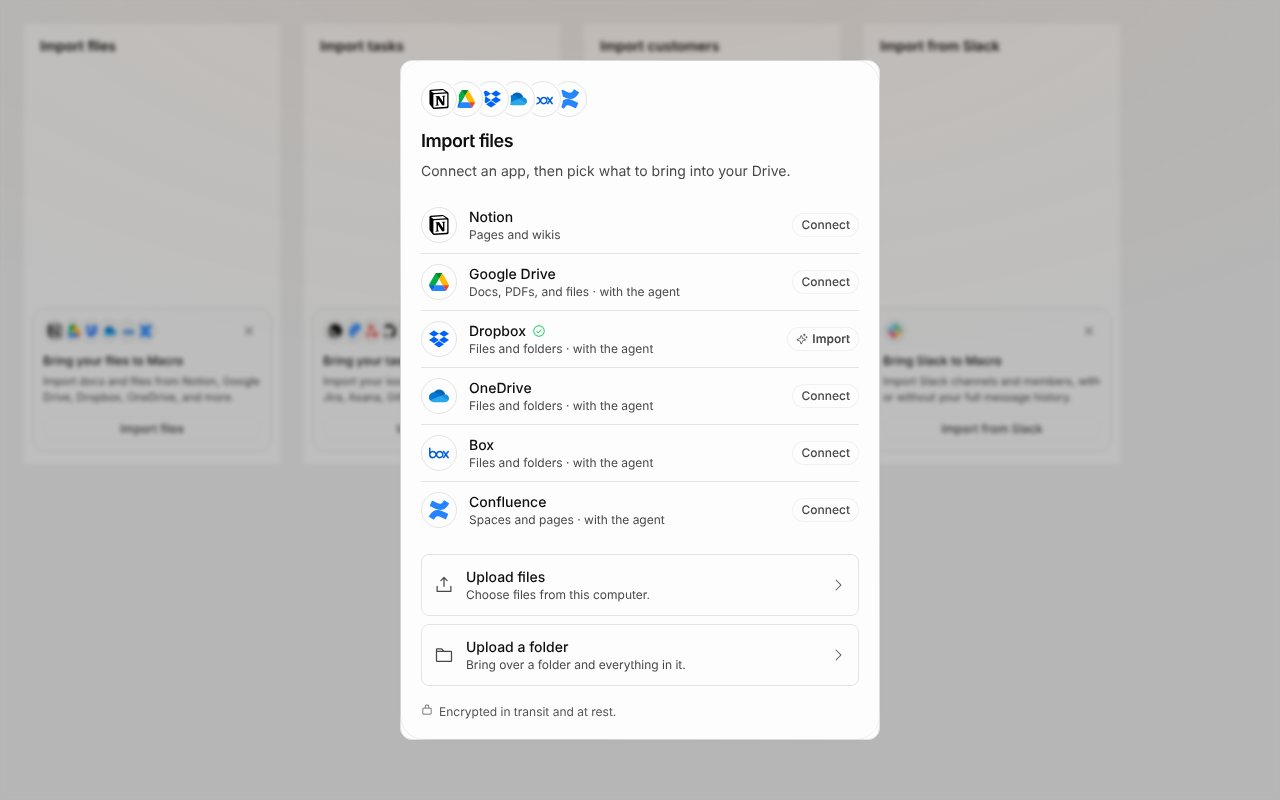
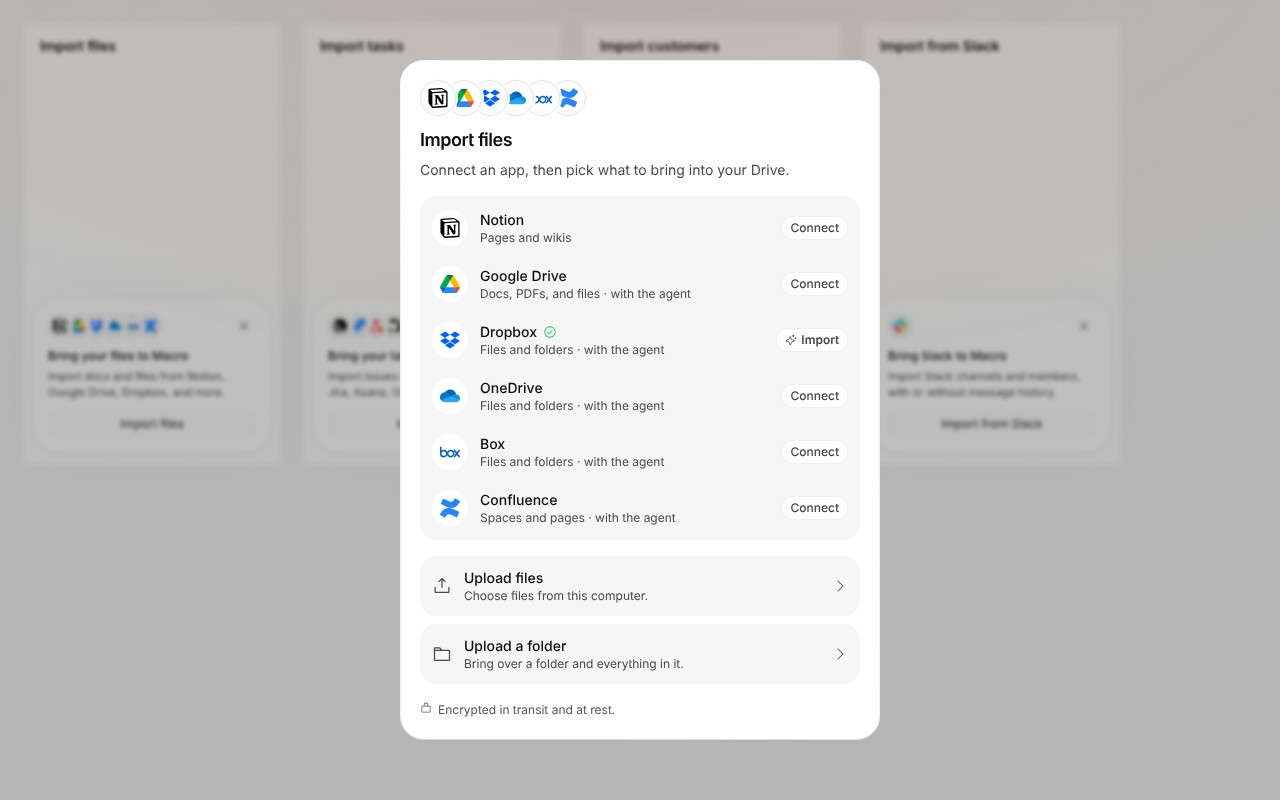
feat(connector-import): soften the import dialog to match the cards
Why: the import dialog's hard divider lines, borders and tight corners
clashed with the new rounded, shadowed setup cards.

What: give the dialog panels the dialog's own 24px rounding without an inner
border (the `contents` wrapper had kept them out of reach of Dialog's surface
reset). Replace divider lines in the app and item lists with soft grouped
panels, turn the upload rows and the error note into borderless tiles, and
drop the footer rule and the logo rings. Recapture the dialog review media.

Claude-Session: https://claude.ai/code/session_01WDqoDVt7oj7XvKTSTtyzYA

diff --git a/apps/web/src/features/connector-import/views/import-dialog.tsx b/apps/web/src/features/connector-import/views/import-dialog.tsx
@@ -133,7 +133,11 @@ function ImportDialogBody(props: {
       <Show
         when={picking()}
         fallback={
-          <ActionDialogShell class="max-h-[85dvh]">
+          // The `contents` wrapper hides this shell from Dialog's surface reset.
+          <ActionDialogShell
+            hideBorder
+            class="max-h-[85dvh] rounded-[24px] bg-transparent"
+          >
             <ActionDialogShell.Body class="space-y-4">
               <ActionDialogShell.Header>
                 <LogoStack
@@ -149,7 +153,7 @@ function ImportDialogBody(props: {
                 </ActionDialogShell.Description>
               </ActionDialogShell.Header>
               <ul
-                class="divide-y divide-edge-muted"
+                class="rounded-2xl bg-ink/3 px-3 py-1"
                 aria-label={`Apps to ${props.config.action.toLowerCase()} from`}
               >
                 <For each={props.config.providers}>
@@ -184,7 +188,7 @@ function ImportDialogBody(props: {
                     {(alternative) => (
                       <button
                         type="button"
-                        class="flex w-full items-center gap-3 rounded-lg border border-edge-muted p-3 text-left hover:bg-ink/4 focus-visible:outline-accent"
+                        class="flex w-full items-center gap-3 rounded-2xl bg-ink/3 px-3 py-3 text-left hover:bg-ink/5 focus-visible:outline-accent"
                         onClick={() => {
                           props.onClose();
                           alternative.onSelect();

diff --git a/apps/web/src/features/connector-import/views/native-import-pane.tsx b/apps/web/src/features/connector-import/views/native-import-pane.tsx
@@ -126,7 +126,11 @@ export function NativeImportPane(props: {
   }
 
   return (
-    <ActionDialogShell class="max-h-[85dvh]">
+    // Inside the dialog's `contents` wrapper, out of reach of its surface reset.
+    <ActionDialogShell
+      hideBorder
+      class="max-h-[85dvh] rounded-[24px] bg-transparent"
+    >
       <ActionDialogShell.Body class="space-y-4">
         <ActionDialogShell.Header>
           <div class="flex items-center gap-2">
@@ -151,7 +155,7 @@ export function NativeImportPane(props: {
         <Switch>
           <Match when={run()?.status === 'failed' && !searching()}>
             <div
-              class="flex items-start gap-2 rounded-lg border border-edge-muted p-3 text-sm text-ink-muted"
+              class="flex items-start gap-2 rounded-2xl bg-ink/3 p-3 text-sm text-ink-muted"
               role="alert"
             >
               <WarningIcon
@@ -230,7 +234,7 @@ export function NativeImportPane(props: {
         </Show>
         <SecurityNote />
       </ActionDialogShell.Body>
-      <ActionDialogShell.Footer>
+      <ActionDialogShell.Footer class="border-t-0">
         <Button
           variant="ghost"
           depth={2}

diff --git a/apps/web/src/features/connector-import/components/provider-row.tsx b/apps/web/src/features/connector-import/components/provider-row.tsx
@@ -21,7 +21,7 @@ export function ProviderRow(props: {
   const native = () => props.provider.native !== undefined;
   return (
     <li class="flex items-center gap-3 py-2.5">
-      <span class="flex size-9 shrink-0 items-center justify-center rounded-full border border-edge-muted bg-surface">
+      <span class="flex size-9 shrink-0 items-center justify-center rounded-full bg-dialog">
         <Dynamic
           component={props.provider.icon}
           class="size-5 text-ink"

diff --git a/apps/web/src/features/connector-import/components/import-item-list.tsx b/apps/web/src/features/connector-import/components/import-item-list.tsx
@@ -33,7 +33,7 @@ export function ImportItemList(props: {
   href(entity: NonNullable<ImportItem['entity']>): string;
 }) {
   return (
-    <ul class="divide-y divide-edge-muted" aria-label="Items to import">
+    <ul class="rounded-2xl bg-ink/3 px-3 py-1" aria-label="Items to import">
       <For each={props.items}>
         {(item) => (
           <li class="flex items-start gap-3 py-2.5 text-sm">
